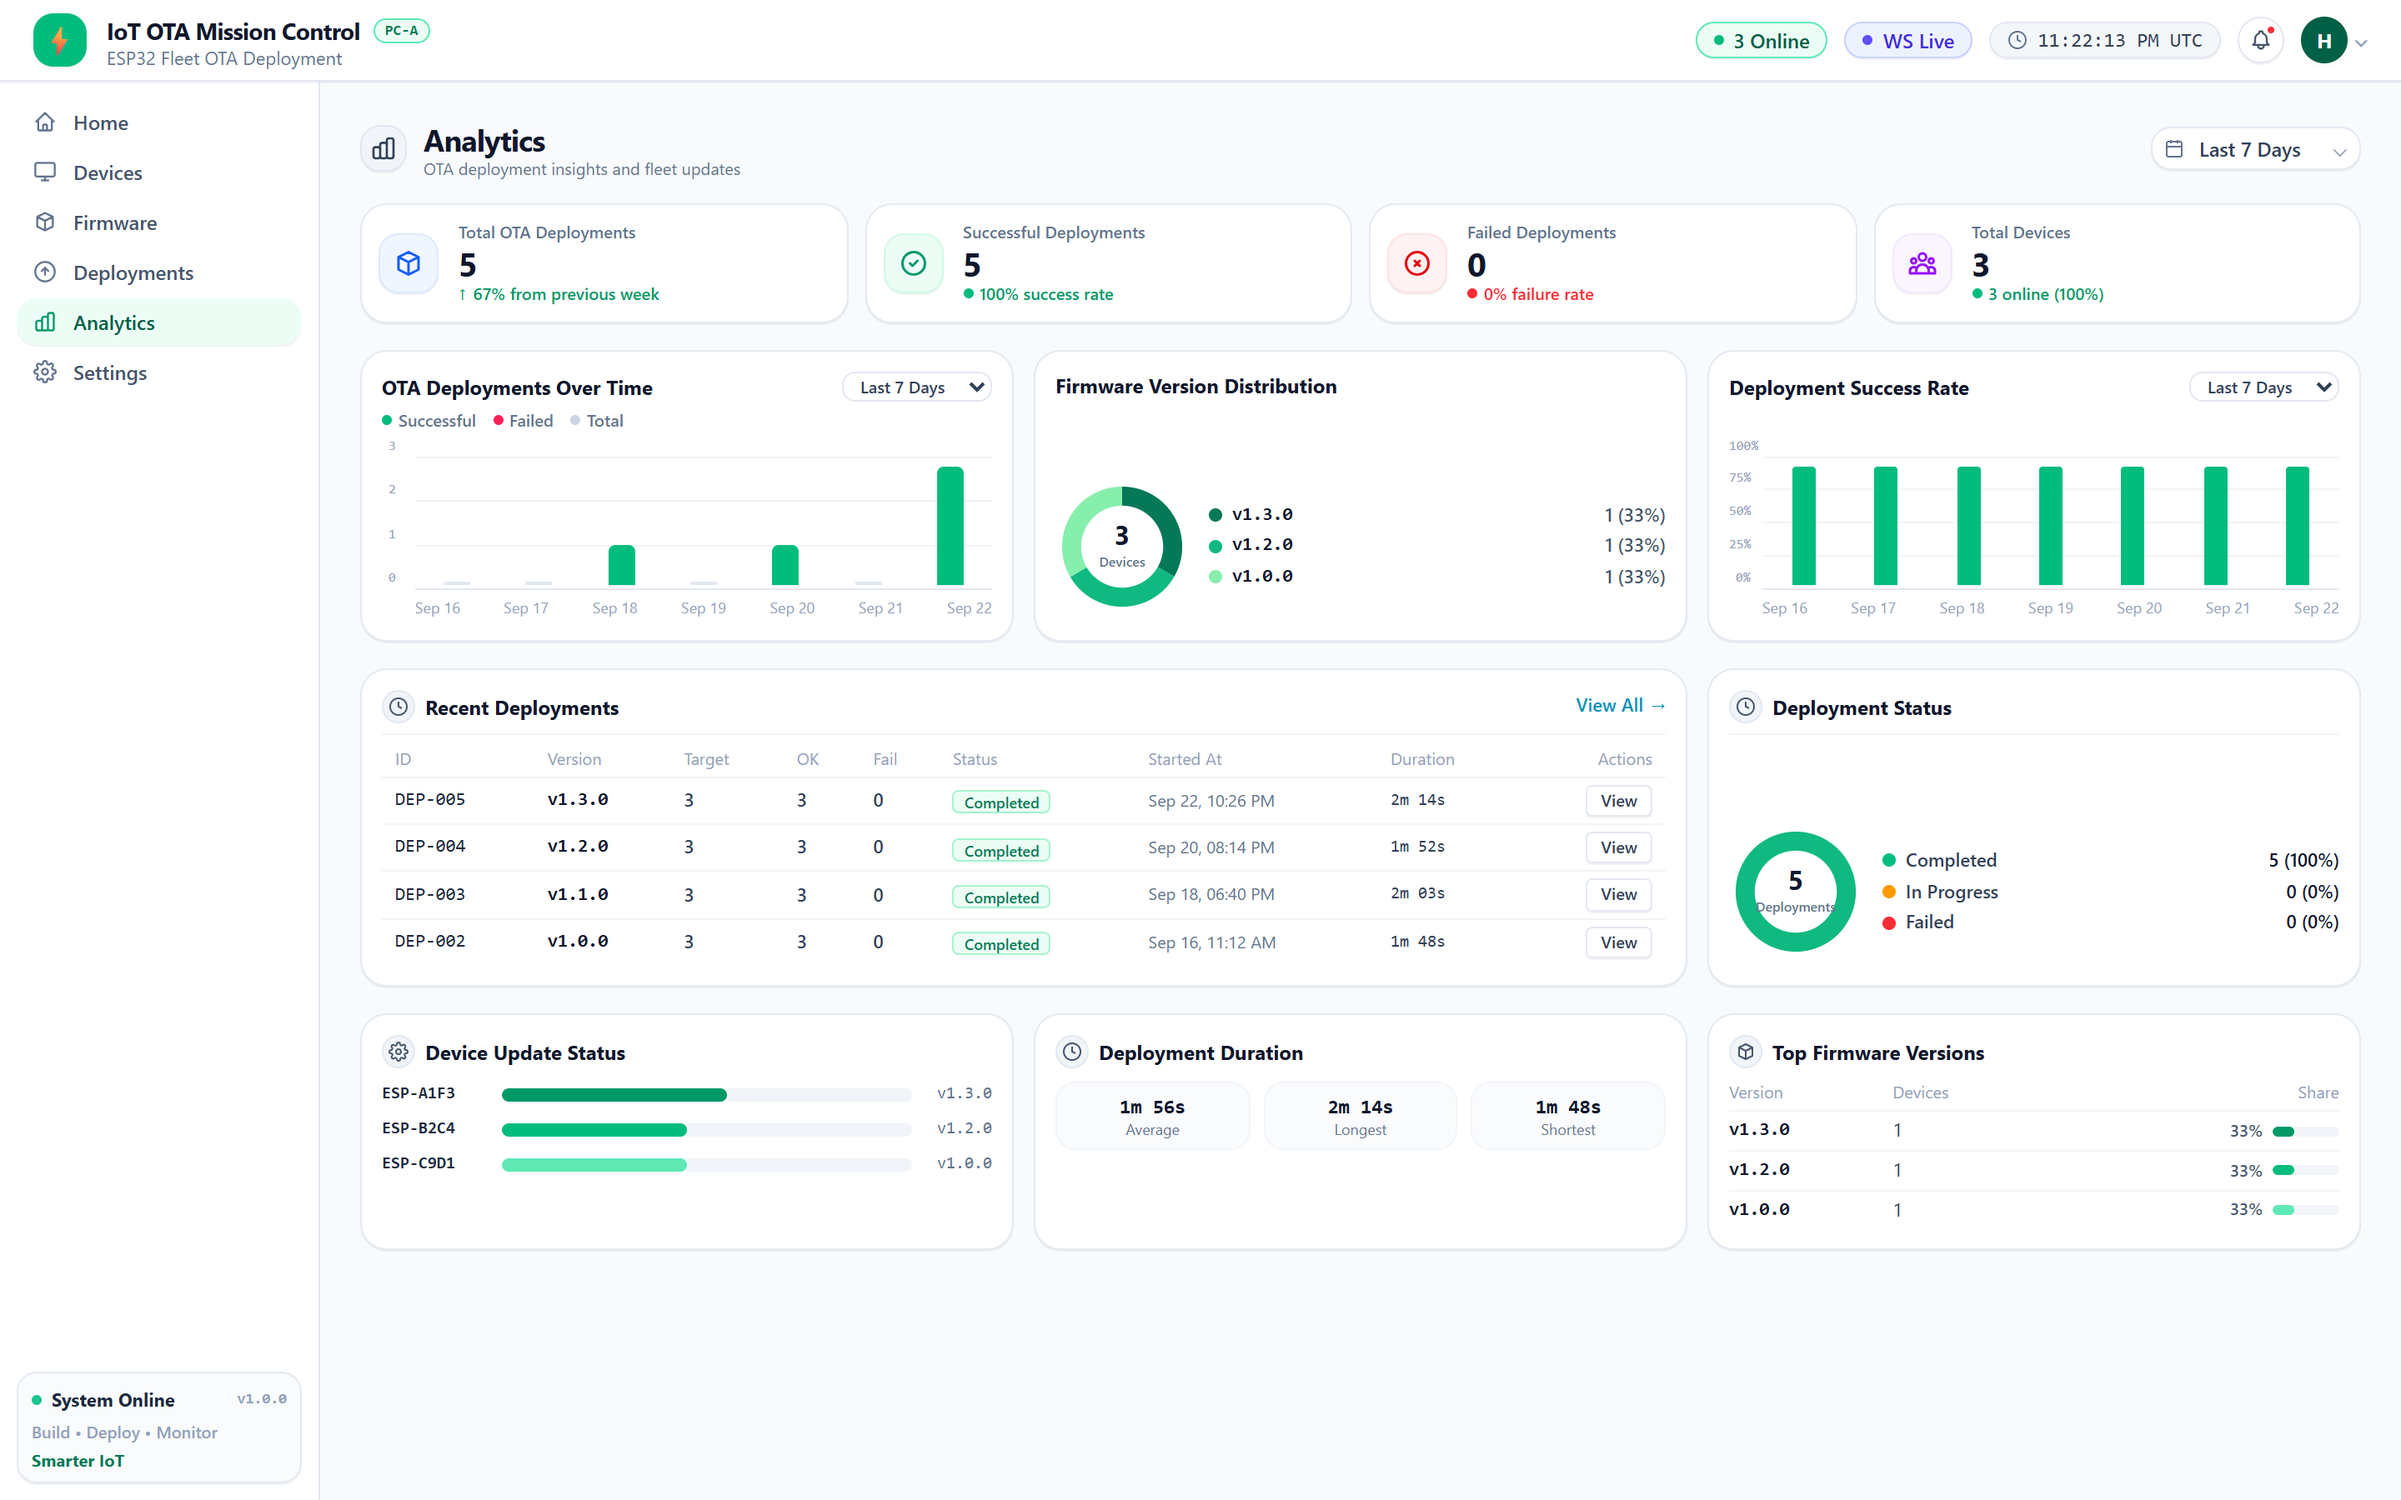
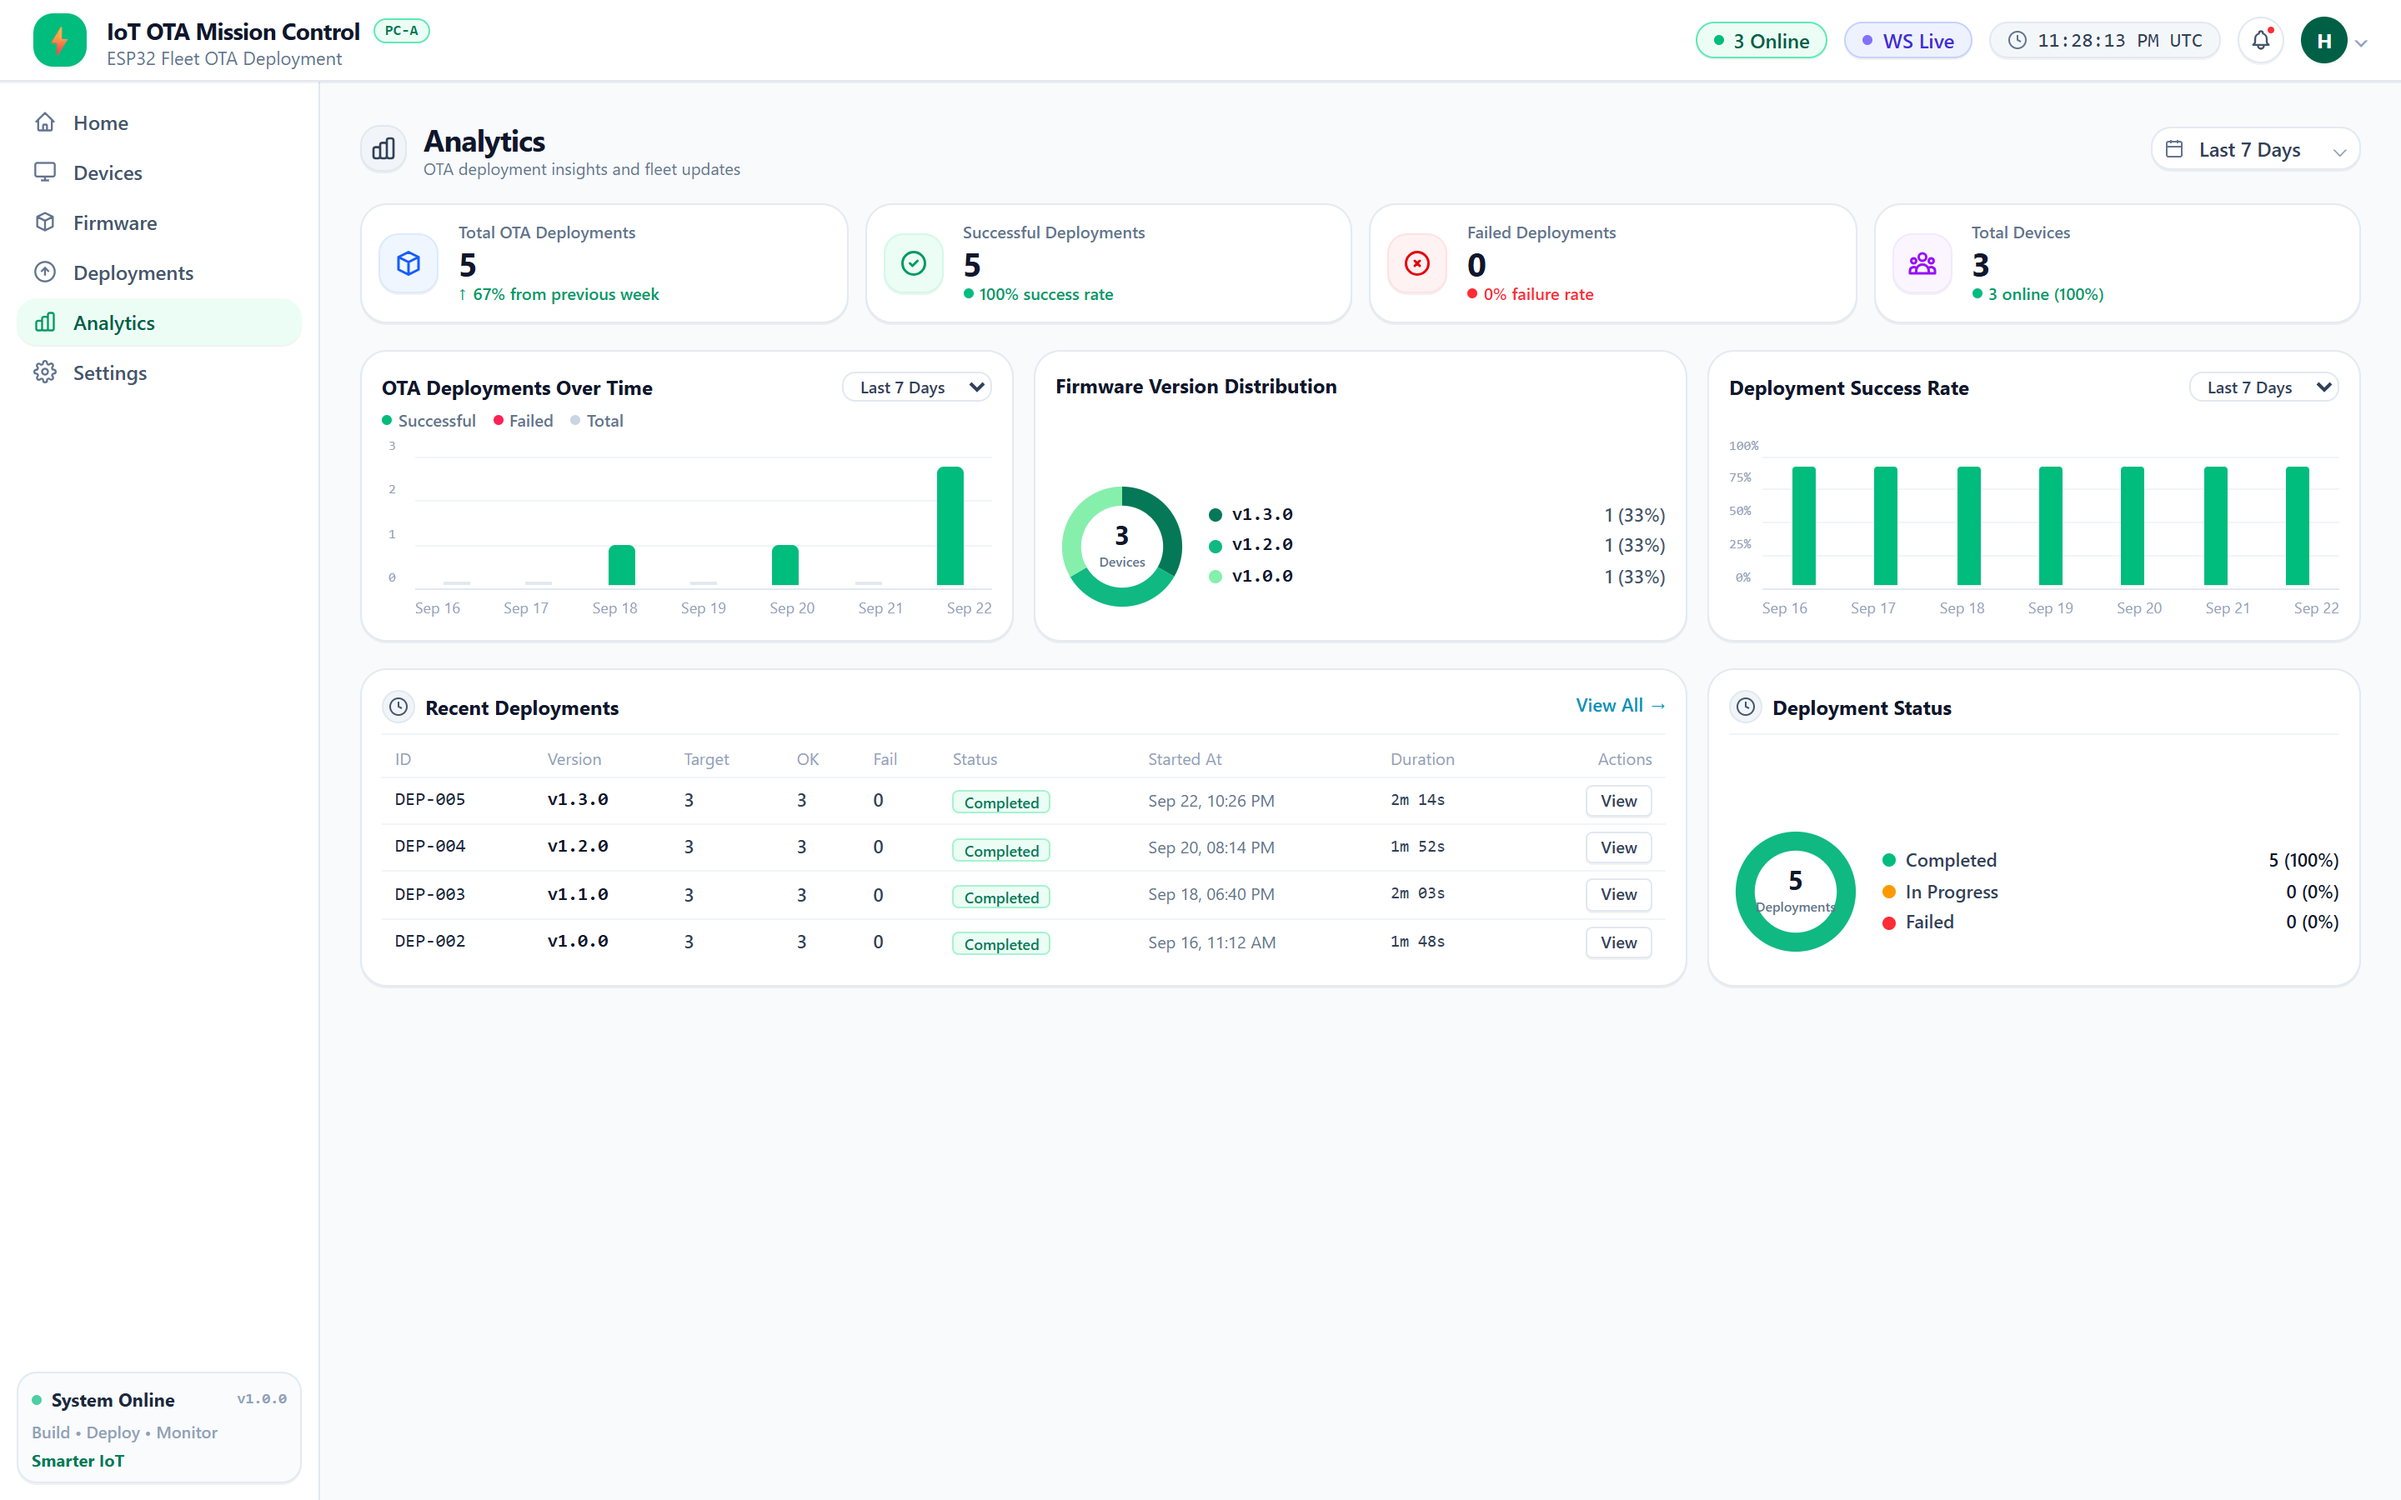
feat: remove Device Update Status, Deployment Duration, and Top Firmware Versions cards from Analytics

diff --git a/dashboard/src/pages/AnalyticsPage.tsx b/dashboard/src/pages/AnalyticsPage.tsx
@@ -522,146 +522,6 @@ export function AnalyticsPage({ devices, firmware }: Props) {
           </div>
         </div>
       </div>
-
-      {/* ─── ROW 4: BOTTOM 3 SUMMARY METRIC CARDS ──────────────────────────────── */}
-      <div className="grid grid-cols-1 lg:grid-cols-3 gap-3">
-        {/* Card 1: Device Update Status */}
-        <div className="bg-white border border-slate-200/90 rounded-2xl p-3 shadow-2xs space-y-2">
-          <div className="flex items-center gap-1.5">
-            <div className="w-5 h-5 rounded-full bg-slate-100 border border-slate-200 text-slate-600 flex items-center justify-center">
-              <svg className="w-3 h-3" fill="none" viewBox="0 0 24 24" stroke="currentColor" strokeWidth={2}>
-                <circle cx="12" cy="12" r="3" />
-                <path strokeLinecap="round" strokeLinejoin="round" d="M19.4 15a1.65 1.65 0 00.33 1.82l.06.06a2 2 0 010 2.83 2 2 0 01-2.83 0l-.06-.06a1.65 1.65 0 00-1.82-.33 1.65 1.65 0 00-1 1.51V21a2 2 0 01-2 2 2 2 0 01-2-2v-.09A1.65 1.65 0 009 19.4a1.65 1.65 0 00-1.82.33l-.06.06a2 2 0 01-2.83 0 2 2 0 010-2.83l.06-.06a1.65 1.65 0 00.33-1.82 1.65 1.65 0 00-1.51-1H3a2 2 0 01-2-2 2 2 0 012-2h.09A1.65 1.65 0 004.6 9a1.65 1.65 0 00-.33-1.82l-.06-.06a2 2 0 010-2.83 2 2 0 012.83 0l.06.06a1.65 1.65 0 001.82.33H9a1.65 1.65 0 001-1.51V3a2 2 0 012-2 2 2 0 012 2v.09a1.65 1.65 0 001 1.51 1.65 1.65 0 001.82-.33l.06-.06a2 2 0 012.83 0 2 2 0 010 2.83l-.06.06a1.65 1.65 0 00-.33 1.82V9a1.65 1.65 0 001.51 1H21a2 2 0 012 2 2 2 0 01-2 2h-.09a1.65 1.65 0 00-1.51 1z" />
-              </svg>
-            </div>
-            <h3 className="font-sans font-bold text-xs text-slate-900">Device Update Status</h3>
-          </div>
-
-          <div className="space-y-1.5">
-            {/* ESP-A1F3 */}
-            <div className="flex items-center gap-2">
-              <span className="font-mono font-bold text-[10px] text-slate-800 w-16">ESP-A1F3</span>
-              <div className="flex-1 bg-slate-100 rounded-full h-2 overflow-hidden">
-                <div className="bg-emerald-600 h-full rounded-full" style={{ width: '55%' }} />
-              </div>
-              <span className="font-mono text-[10px] text-slate-500 w-10 text-right">v1.3.0</span>
-            </div>
-
-            {/* ESP-B2C4 */}
-            <div className="flex items-center gap-2">
-              <span className="font-mono font-bold text-[10px] text-slate-800 w-16">ESP-B2C4</span>
-              <div className="flex-1 bg-slate-100 rounded-full h-2 overflow-hidden">
-                <div className="bg-emerald-500 h-full rounded-full" style={{ width: '45%' }} />
-              </div>
-              <span className="font-mono text-[10px] text-slate-500 w-10 text-right">v1.2.0</span>
-            </div>
-
-            {/* ESP-C9D1 */}
-            <div className="flex items-center gap-2">
-              <span className="font-mono font-bold text-[10px] text-slate-800 w-16">ESP-C9D1</span>
-              <div className="flex-1 bg-slate-100 rounded-full h-2 overflow-hidden">
-                <div className="bg-emerald-300 h-full rounded-full" style={{ width: '45%' }} />
-              </div>
-              <span className="font-mono text-[10px] text-slate-500 w-10 text-right">v1.0.0</span>
-            </div>
-          </div>
-        </div>
-
-        {/* Card 2: Deployment Duration */}
-        <div className="bg-white border border-slate-200/90 rounded-2xl p-3 shadow-2xs space-y-2">
-          <div className="flex items-center gap-1.5">
-            <div className="w-5 h-5 rounded-full bg-slate-100 border border-slate-200 text-slate-600 flex items-center justify-center">
-              <svg className="w-3 h-3" fill="none" viewBox="0 0 24 24" stroke="currentColor" strokeWidth={2}>
-                <circle cx="12" cy="12" r="10" />
-                <polyline points="12 6 12 12 16 14" />
-              </svg>
-            </div>
-            <h3 className="font-sans font-bold text-xs text-slate-900">Deployment Duration</h3>
-          </div>
-
-          <div className="grid grid-cols-3 gap-2">
-            {/* Box 1: Average */}
-            <div className="bg-slate-50/70 border border-slate-100 rounded-xl p-1.5 flex flex-col items-center justify-center text-center">
-              <span className="text-xs font-bold text-slate-900 font-mono">1m 56s</span>
-              <span className="text-[9px] text-slate-500 leading-tight">Average</span>
-            </div>
-
-            {/* Box 2: Longest */}
-            <div className="bg-slate-50/70 border border-slate-100 rounded-xl p-1.5 flex flex-col items-center justify-center text-center">
-              <span className="text-xs font-bold text-slate-900 font-mono">2m 14s</span>
-              <span className="text-[9px] text-slate-500 leading-tight">Longest</span>
-            </div>
-
-            {/* Box 3: Shortest */}
-            <div className="bg-slate-50/70 border border-slate-100 rounded-xl p-1.5 flex flex-col items-center justify-center text-center">
-              <span className="text-xs font-bold text-slate-900 font-mono">1m 48s</span>
-              <span className="text-[9px] text-slate-500 leading-tight">Shortest</span>
-            </div>
-          </div>
-        </div>
-
-        {/* Card 3: Top Firmware Versions */}
-        <div className="bg-white border border-slate-200/90 rounded-2xl p-3 shadow-2xs space-y-2">
-          <div className="flex items-center gap-1.5">
-            <div className="w-5 h-5 rounded-full bg-slate-100 border border-slate-200 text-slate-600 flex items-center justify-center">
-              <svg className="w-3 h-3" fill="none" viewBox="0 0 24 24" stroke="currentColor" strokeWidth={2}>
-                <path strokeLinecap="round" strokeLinejoin="round" d="M20 7l-8-4-8 4m16 0l-8 4m8-4v10l-8 4m0-10L4 7m8 4v10M4 7v10l8 4" />
-              </svg>
-            </div>
-            <h3 className="font-sans font-bold text-xs text-slate-900">Top Firmware Versions</h3>
-          </div>
-
-          <div className="overflow-x-auto">
-            <table className="w-full text-left border-collapse font-sans text-xs">
-              <thead>
-                <tr className="border-b border-slate-100 text-slate-400 text-[10px]">
-                  <th className="pb-1 font-normal">Version</th>
-                  <th className="pb-1 font-normal">Devices</th>
-                  <th className="pb-1 font-normal text-right">Share</th>
-                </tr>
-              </thead>
-              <tbody className="divide-y divide-slate-100 text-xs">
-                <tr>
-                  <td className="py-1 font-mono font-bold text-slate-900 text-[11px]">v1.3.0</td>
-                  <td className="py-1 text-slate-700 text-[11px]">1</td>
-                  <td className="py-1 text-right">
-                    <div className="flex items-center justify-end gap-1.5">
-                      <span className="font-medium text-slate-600 text-[10px]">33%</span>
-                      <div className="w-10 bg-slate-100 rounded-full h-1.5 overflow-hidden">
-                        <div className="bg-emerald-600 h-full rounded-full" style={{ width: '33%' }} />
-                      </div>
-                    </div>
-                  </td>
-                </tr>
-                <tr>
-                  <td className="py-1 font-mono font-bold text-slate-900 text-[11px]">v1.2.0</td>
-                  <td className="py-1 text-slate-700 text-[11px]">1</td>
-                  <td className="py-1 text-right">
-                    <div className="flex items-center justify-end gap-1.5">
-                      <span className="font-medium text-slate-600 text-[10px]">33%</span>
-                      <div className="w-10 bg-slate-100 rounded-full h-1.5 overflow-hidden">
-                        <div className="bg-emerald-500 h-full rounded-full" style={{ width: '33%' }} />
-                      </div>
-                    </div>
-                  </td>
-                </tr>
-                <tr>
-                  <td className="py-1 font-mono font-bold text-slate-900 text-[11px]">v1.0.0</td>
-                  <td className="py-1 text-slate-700 text-[11px]">1</td>
-                  <td className="py-1 text-right">
-                    <div className="flex items-center justify-end gap-1.5">
-                      <span className="font-medium text-slate-600 text-[10px]">33%</span>
-                      <div className="w-10 bg-slate-100 rounded-full h-1.5 overflow-hidden">
-                        <div className="bg-emerald-300 h-full rounded-full" style={{ width: '33%' }} />
-                      </div>
-                    </div>
-                  </td>
-                </tr>
-              </tbody>
-            </table>
-          </div>
-        </div>
-      </div>
     </div>
   )
 }
